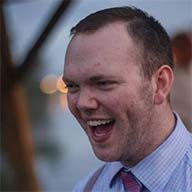
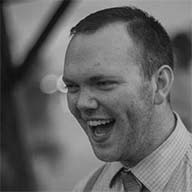
update bios and add creative commons licenses

diff --git a/css/custom-boostrap.css b/css/custom-boostrap.css
@@ -9881,6 +9881,24 @@ a:hover {
 .projectPage .theMedia iframe {
   max-width: 640px;
 }
+.projectPage #cc {
+    margin-left: ;
+  font-family: 'proxima-nova', serif, 'Helvetica Neue', Helvetica, Arial, sans-serif;
+  font-size: .7em;
+  line-height: 1.4;
+  padding: 5px 10px;
+  color: #339096;
+  background-color: #ffffff;
+}
+.projectPage #cc a {
+  color: #339096;
+  text-decoration: bold;
+}
+.projectPage #cc a:hover,
+.projectPage #cc a:focus {
+  color: #339096;
+  text-decoration: underline;
+}
 .whatIsIt {
   padding: 10px;
   padding-top: 40px;

diff --git a/about/index.php b/about/index.php
@@ -204,7 +204,7 @@
 							</div>
 						</div>
                         <div class='span4 person'>
-                           <p><img data-toggle='collapse' data-target='#johnnyBio' src='../img/people/bio/real_johnny.jpg' data-real='johnny' class='headshot'></p>
+                           <p><img data-toggle='collapse' data-target='#johnnyBio' src='../img/people/bio/johnny.jpg' data-real='johnny' class='headshot' style='background: url(../img/people/bio/real_johnny.jpg);'></p>
 							<p class='trigger' data-toggle='collapse' data-target='#johnnyBio'>Johnny Richardson</p>
 							<p class='trigger' data-toggle='collapse' data-target='#johnnyBio'>Lead Developer</p>
 							<div id='johnnyBio' class='collapse out'>
@@ -217,7 +217,7 @@
                     
                     <div class='row'>
                      <div class='span4 person'>
-							<p><img data-toggle='collapse' data-target='#jayBio' src='../img/people/bio/real_jay.jpg' data-real='jay' class='headshot'></p>
+							<p><img data-toggle='collapse' data-target='#jayBio' src='../img/people/bio/real_jay.jpg' data-real='jay' class='headshot' style='background: url(../img/people/bio/real_jay.jpg);'></p>
 							<p class='trigger' data-toggle='collapse' data-target='#jayBio'>Jay Vachon</p>
 							<p class='trigger' data-toggle='collapse' data-target='#jayBio'>Developer</p>
 							<div id='jayBio' class='collapse out'>
@@ -232,7 +232,7 @@
 							</div>
 						</div>
                          <div class='span4 person'>
-							<p><img data-toggle='collapse' data-target='#jeddBio' src='../img/people/bio/real_sean.jpg' data-real='sean' class='headshot'></p>
+							<p><img data-toggle='collapse' data-target='#jeddBio' src='../img/people/bio/sean.jpg' data-real='sean' class='headshot' style='background: url(../img/people/bio/real_sean.jpg);'></p>
 							<p class='trigger' data-toggle='collapse' data-target='#seanBio'>Sean Van Deuren</p>
 							<p class='trigger' data-toggle='collapse' data-target='#seanBio'>Lab Coordinator</p>
 							<div id='seanBio' class='collapse out'>
@@ -242,12 +242,17 @@
 							</div>
 						</div>
                         <div class='span4 person'>
-							<p><img data-toggle='collapse' data-target='#mayaBio' src='../img/people/bio/real_maya.jpg' data-real='maya' class='headshot'></p>
+							<p><img data-toggle='collapse' data-target='#mayaBio' src='../img/people/bio/maya.jpg' data-real='maya' class='headshot' style='background: url(../img/people/bio/real_maya.jpg);'></p>
 							<p class='trigger' data-toggle='collapse' data-target='#mayaBio'>Maya Wagoner</p>
-							<p class='trigger' data-toggle='collapse' data-target='#mayaBio'>Community Technology Organizer</p>
+							<p class='trigger' data-toggle='collapse' data-target='#mayaBio'>Curriculum Developer</p>
 							<div id='mayaBio' class='collapse out'>
 								<p>
-									 Maya is a community technology organizer and user experience designer interested in designing digital services with people's political, historical, and experiential knowledge in mind, and in empowering people to create digital services and networks for themselves. She graduated from UC Santa Cruz with a degree in American Studies, and completed a User Experience Design Immersive program at General Assembly. While in San Francisco, she organized the Code for San Francisco Brigade, a local civic technology volunteer group. She is currently working on strengthening the networks in civic media scholarship and practice in the Boston area through a civic media conference, consortium, and website. 
+									 Maya is a community technology organizer and user experience designer interested in designing digital services with people's political, historical, and experiential knowledge in mind, and in empowering people to create digital services and networks for themselves. She graduated from UC Santa Cruz with a degree in American Studies, and completed a User Experience Design Immersive program at General Assembly. While in San Francisco, she organized the Code for San Francisco Brigade, a local civic technology volunteer group. She is currently working on strengthening the networks in civic media scholarship and practice in the Boston area through a civic media conference, consortium, and website.
+								</p>
+								<p>
+									<a target='_blank' href='http://twitter.com/JeddCohen' target='_blank'><i class='icon-twitter icon-large' rel='tooltip' data-title='twitter'></i></a>
+	      							<a target='_blank' href='http://www.linkedin.com/profile/view?id=17264239&trk=nav_responsive_tab_profile' target='_blank'><i class='icon-linkedin icon-large' rel='tooltip' data-title='linkedIn'></i></a>
+	      							<a target='_blank' href='http://teachingasactionresearch.wordpress.com/' target='_blank'><i class='icon-star icon-large' rel='tooltip' data-title='portfolio'></i></a>
 								</p>
 							</div>
 						</div>
@@ -270,7 +275,7 @@
 							</div>
 						</div>
                          <div class='span4 person'>
-							<p><img data-toggle='collapse' data-target='#jordanBio' src='../img/people/bio/real_jordan.jpg' data-real='jordan' class='headshot'></p>
+							<p><img data-toggle='collapse' data-target='#jordanBio' src='../img/people/bio/jordan.jpg' data-real='jordan' class='headshot' style='background: url(../img/people/bio/real_jordan.jpg);'></p>
 							<p class='trigger' data-toggle='collapse' data-target='#jordanBio'>Jordan Pailthorpe</p>
 							<p class='trigger' data-toggle='collapse' data-target='#jBio'>Producer</p>
 							<div id='jordanBio' class='collapse out'>
@@ -280,7 +285,7 @@
 							</div>
 						</div>
                         <div class='span4 person'>
-							<p><img data-toggle='collapse' data-target='#romaBio' src='../img/people/bio/real_roma2.jpg' data-real='sean' class='headshot'></p>
+							<p><img data-toggle='collapse' data-target='#romaBio' src='../img/people/bio/roma.jpg' data-real='roma' class='headshot' style='background: url(../img/people/bio/real_roma.jpg);'></p>
 							<p class='trigger' data-toggle='collapse' data-target='#romaBio'>Roma  Dash</p>
 							<p class='trigger' data-toggle='collapse' data-target='#romaBio'>Curriculum Developer</p>
 							<div id='romaBio' class='collapse out'>

diff --git a/games/bodaboda/index.php b/games/bodaboda/index.php
@@ -80,7 +80,15 @@
 							
 						</div>
 					</div>
-				</div>
+				
+                    <div class='row'>
+                        <div class="span12" id="cc">
+                            <p>
+                            <span xmlns:dct="http://purl.org/dc/terms/" href="http://purl.org/dc/dcmitype/InteractiveResource" property="dct:title" rel="dct:type">Boda Boda</span> by <a xmlns:cc="http://creativecommons.org/ns#" href="http://engagementgamelab.org/games/bodaboda/" property="cc:attributionName" rel="cc:attributionURL">Engagement Lab</a> is licensed under a <a rel="license" href="http://creativecommons.org/licenses/by-nc-sa/4.0/">Creative Commons Attribution-NonCommercial-ShareAlike 4.0 International License</a>.
+                            </p>
+                        </div>
+                    </div>
+                </div>
 			</div>
 		</div>
 		<div id='push'></div>

diff --git a/games/upriver/index.php b/games/upriver/index.php
@@ -91,6 +91,13 @@
 						</div>
 					</div>
 				</div>
+                <div class='row'>
+                    <div class="span12" id="cc">
+                        <p>
+                       <span xmlns:dct="http://purl.org/dc/terms/" href="http://purl.org/dc/dcmitype/InteractiveResource" property="dct:title" rel="dct:type">Up River</span> by <a xmlns:cc="http://creativecommons.org/ns#" href="http://engagementgamelab.org/games/upriver/" property="cc:attributionName" rel="cc:attributionURL">Engagement Lab</a> is licensed under a <a rel="license" href="http://creativecommons.org/licenses/by-nc-sa/4.0/">Creative Commons Attribution-NonCommercial-ShareAlike 4.0 International License</a>.
+                        </p>
+                    </div>
+                </div>
 			</div>
 			<div id='push'></div>
    		</div>
